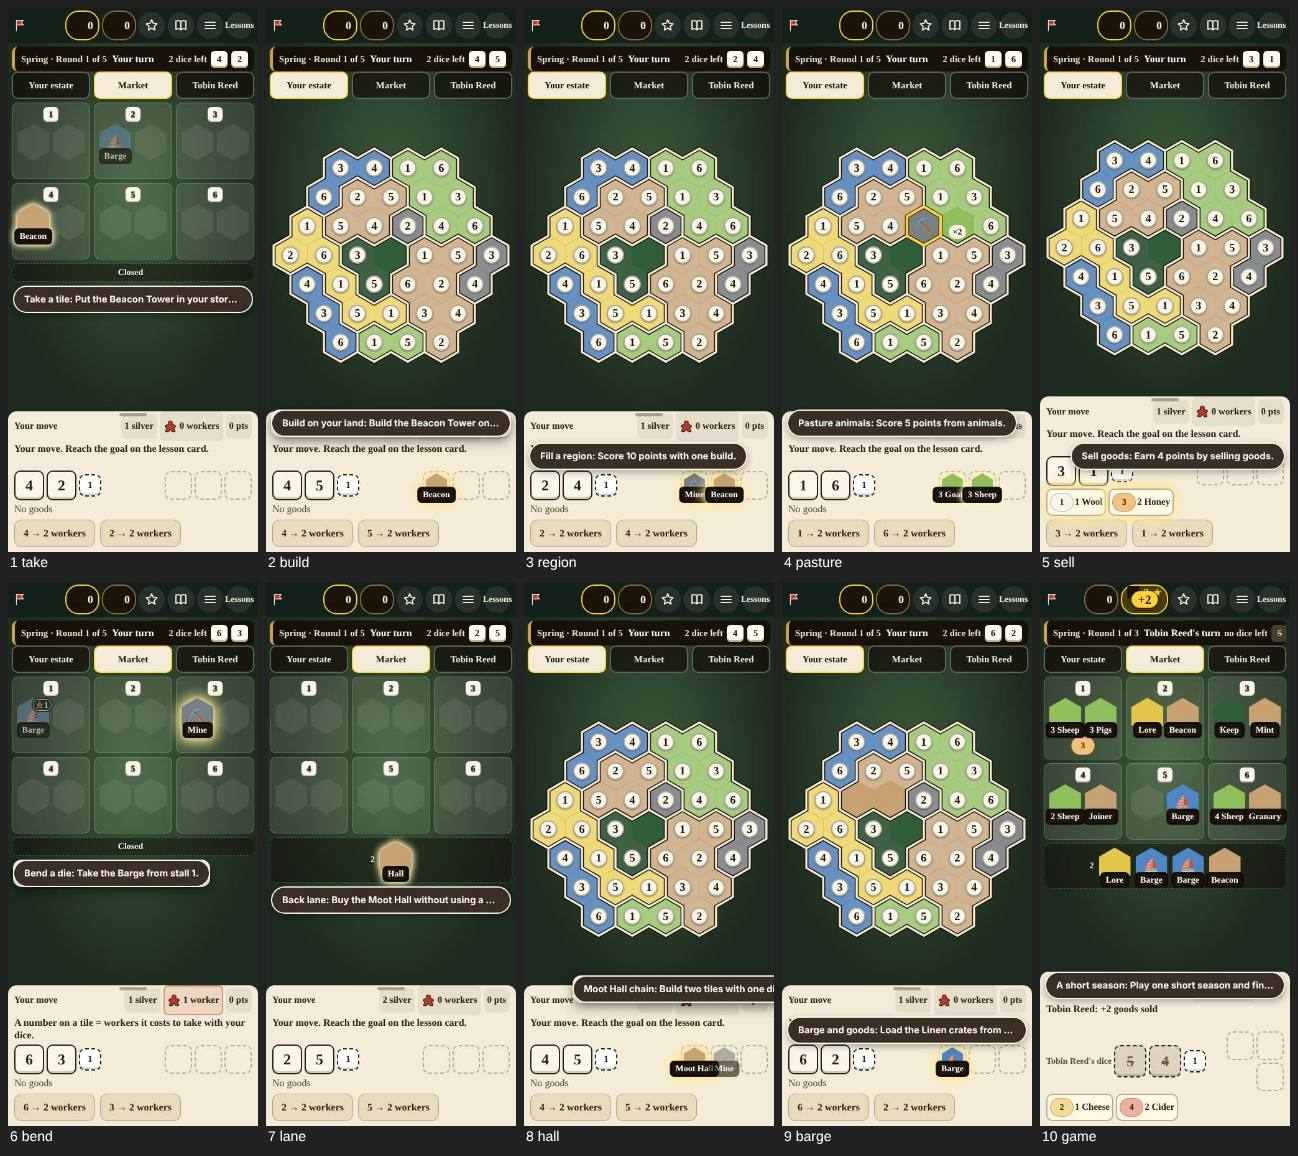
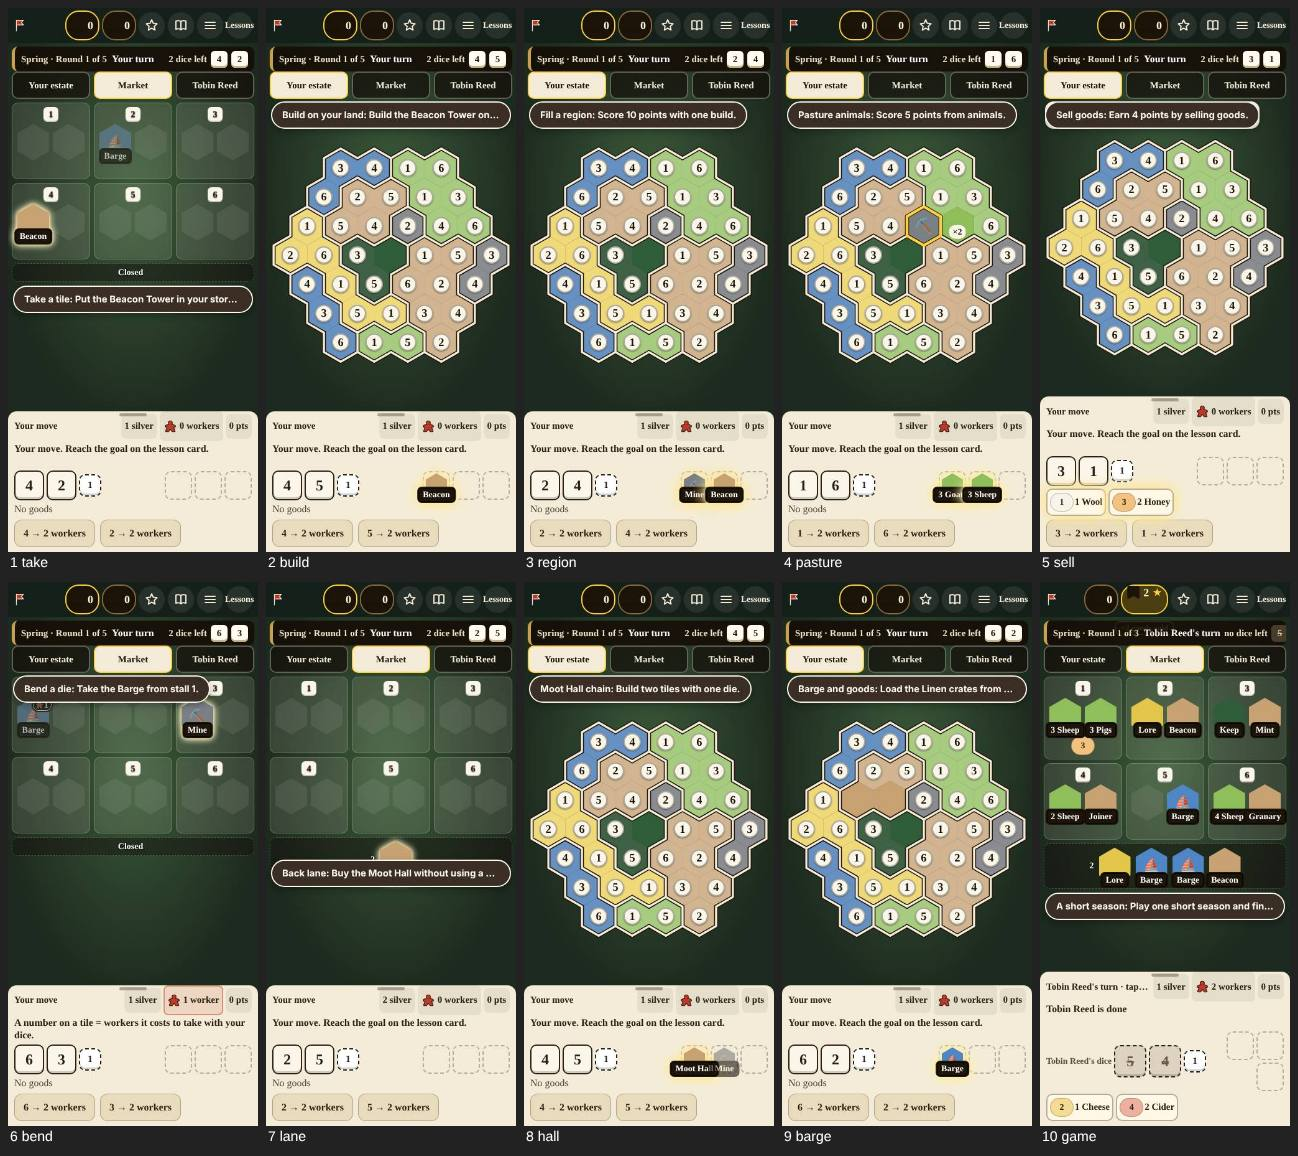
Vale lessons: phone chip gets its own band, never over tiles or the dock line; ?lesson=<id> link; contact sheets

diff --git a/games-src/shell/gx-scenario-tutor.js b/games-src/shell/gx-scenario-tutor.js
@@ -2,7 +2,7 @@
 // small, stacked position with ONE objective; the player makes real moves and learns the rule from the consequence. A floating
 // objective card never dims and never blocks taps. Needs gx-scenario-tutor.css. ES5, no dependencies. Docs: shell/GXST.md.
 // (Global is GXST because GXS is already the ?scn= test registry in gx-scenario.js.)
-//   GXST.init({game, scenarios:[...], storageKey?, settled?:()=>bool, keepClear?:[selectors], qParent?})   GXST.picker() GXST.start(id) GXST.retry()
+//   GXST.init({game, scenarios:[...], storageKey?, settled?:()=>bool, keepClear?:[selectors], qParent?, phoneSlot?:{after,before,avoid:[selectors]}})   GXST.picker() GXST.start(id) GXST.retry()
 //   GXST.next() GXST.hint() GXST.close() GXST.state()      events: window 'gxst' CustomEvent, detail.type =
 //   picker | start | hint | win | fail | retry | close
 //   scenario: {id, title, rule, goal, setup(), success()->bool, fail()->false|'message', par?, moves?()->n, hints:[nudge, {say, target}],
@@ -88,11 +88,18 @@
     function clamp(p) { return [Math.max(4, Math.min(vw - bw - 4, p[0])), Math.max(4, Math.min(vh - bh - 4, p[1]))]; }
     function box(p) { return { left: p[0], top: p[1], right: p[0] + bw, bottom: p[1] + bh }; }
     function cost(p) { var b = box(p), c = t && hit(b, t) ? 1e6 : 0; av.forEach(function (r) { var x = Math.min(b.right, r.right) - Math.max(b.left, r.left), y = Math.min(b.bottom, r.bottom) - Math.max(b.top, r.top); if (x > 0 && y > 0) c += x * y; }); return c; }
-    if (S.pos) { var q = clamp(S.pos); if (!(t && hit(box(q), t))) return put(q); }
+    if (S.pos && !(S.min && C.phoneSlot && vw < 600)) { var q = clamp(S.pos); if (!(t && hit(box(q), t))) return put(q); }
     var top = 4, bar = $('.gx-bar'); if (bar) { var br = bar.getBoundingClientRect(); if (br.top < 4 && br.height < 90) top = br.bottom + 6; }
     var sp = [[8, top], [vw - bw - 8, top], [vw - bw - 8, vh - bh - 8], [8, vh - bh - 8]];
     av.concat(t ? [t] : []).forEach(function (r) { sp.push([8, r.bottom + 6], [vw - bw - 8, r.bottom + 6], [8, r.top - bh - 6], [r.right + 6, r.top]); });
     var best = null; sp.forEach(function (p, i) { p = clamp(p); var c = cost(p) + i * 0.01; if (!best || c < best.c) best = { p: p, c: c }; });
+    if (S.min && C.phoneSlot && vw < 600) {   // phone chip: keep the card's own spot when it is clear (no jump on open); else the chip gets a band just under phoneSlot.after or just above phoneSlot.before, never over phoneSlot.avoid items or the dock
+      var ps = C.phoneSlot, an = vis($(ps.after)), bf = vis($(ps.before)), ob = [], cs = [best.p];
+      (ps.avoid || []).forEach(function (sel) { var a; try { a = D.querySelectorAll(sel); } catch (e) { a = []; } for (var i = 0; i < a.length; i++) { var r = vis(a[i]); if (r) ob.push(r); } });
+      if (an) cs.push([8, an.bottom + 4]); if (bf) cs.push([8, bf.top - bh - 6]);
+      var pb = null; cs.forEach(function (c, k) { c = clamp(c); var b = box(c), v = t && hit(b, t) ? 1e6 : 0; ob.forEach(function (r) { if (hit(b, r)) v += 1; }); if (bf && b.bottom > bf.top) v += 1; if (!pb || v < pb.v) pb = { p: c, v: v }; });
+      if (pb && pb.v < 1e6) { W.style.left = '8px'; return put(pb.p); }
+    }
     var cx = W.style.left ? clamp([parseFloat(W.style.left), parseFloat(W.style.top)]) : null;   // stay where you are unless somewhere is clearly better: a card that jumps while you reach for Retry is worse than a small overlap
     if (cx && cost(cx) <= best.c + 0.5) best = { p: cx, c: 0 };
     put(best.p);

diff --git a/games-src/vale-of-banners/src/lessons.js b/games-src/vale-of-banners/src/lessons.js
@@ -133,11 +133,12 @@
     var op = promptText; promptText = function () { var t = op.apply(this, arguments); if (!L.on || !GXST.active() || G.over || pend() || (me().used[0] && me().used[1])) return t; return 'Your move. Reach the goal on the lesson card.'; };   /* the dock line never gives the answer away */
     var od = doMove; doMove = function (m) { try { if (L.on && GXST.active() && G && isHuman(VB.actor(G)) && m && m.k !== 'end') L.n++; } catch (e) { } return od.apply(this, arguments); };
     lessons.forEach(function (s) { s.moves = function () { return L.n; }; });
-    GXST.init({ game: 'vale-of-banners', scenarios: lessons, keepClear: ['.gx-bar', '#opp', '#tabs', '#mk', '#es', '#dicerow', '#store', '#goods', '#acts'], settled: function () { return !!G && !UI.busy; }, qParent: '.gx-bar' });
+    GXST.init({ game: 'vale-of-banners', scenarios: lessons, keepClear: ['.gx-bar', '#opp', '#tabs', '#mk', '#es', '#dicerow', '#store', '#goods', '#acts'].concat(innerWidth < 600 ? ['#dock'] : []), settled: function () { return !!G && !UI.busy; }, qParent: '.gx-bar', phoneSlot: { after: '#tabs', before: '#dock', avoid: ['#tabs', '#opp', '#mk > *', '[id^="ec-"]'] } });
     /* phone portrait: the dock and the estate fill the screen, so a lesson starts as the one-line goal chip (tap it for Hint and Restart) */
     addEventListener('gxst', function (e) { var t = e.detail && e.detail.type; if ((t === 'start' || t === 'retry') && innerWidth <= 600 && innerHeight > innerWidth) setTimeout(function () { var b = $('.gxst-card .gxst-ib[aria-label="Minimise"]'); if (b && GXST.state().phase === 'play') b.click(); }, 0); });
     window.VBLESSONS = { open: function () { try { GX.close(); } catch (e) { } try { GXC.close(); } catch (e) { } $('#start').hidden = true; GXST.picker(); } };
     if (/[?&]lessons=1/.test(location.search)) GXST.picker();
+    var lq = /[?&]lesson=(\w+)/.exec(location.search); if (lq) { try { $('#start').hidden = true; } catch (e) { } GXST.start(lq[1]); }   // ?lesson=<id> opens that lesson directly (contact sheets, owner links)
   };
   setTimeout(go, 300);
 })();

diff --git a/games-src/shell/GXST.md b/games-src/shell/GXST.md
@@ -3,7 +3,7 @@ Tutorials are games: each lesson stacks a tiny real position with ONE goal; the 
 from the consequence. Spec and authoring checklist: orch/TUTORIAL-SPEC.md. Global is GXST (GXS is the ?scn= registry).
 - Build: add `gx-scenario-tutor.js` to the game's script ORDER/SRC and `gx-scenario-tutor.css` to its inlined CSS (see kaiten/game/build.py). ES5, no deps.
 - `GXST.init({game, scenarios, storageKey?, settled?, keepClear?, qParent?})` once; adds a `Lessons` button (into `.gx-bar`, or `qParent`, else fixed bottom-left).
-  `settled()` returns true when the game is idle (animations done); results are judged only then. `keepClear` = selectors the card keeps off (board areas the lesson is about). `goal` may be a function.
+  `settled()` returns true when the game is idle (animations done); results are judged only then. `phoneSlot` = {after, before, avoid}: on phones (<600px) the minimised chip sits just under `after` or just above `before` (fewest `avoid` items covered), in its own band. `keepClear` = selectors the card keeps off (board areas the lesson is about). `goal` may be a function.
 - Scenario: `{id, title, rule, goal, setup()->Promise?, success()->bool, fail()->false|'message', par?, moves?(), hints:[nudge, {say, target}], debrief}`.
 - `GXST.picker()` `GXST.start(id|index)` `GXST.retry()` `GXST.next()` `GXST.hint()` `GXST.close()` `GXST.active()` (running scenario or null).
 - Card: never dims, never blocks taps outside itself; drag by header (saved), `-` chip, `x` close. Win/fail are the same small card.
